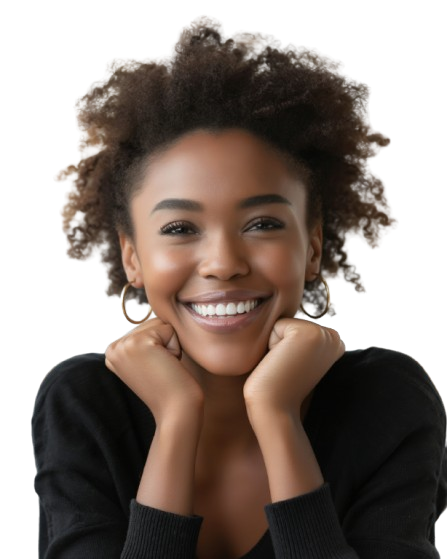
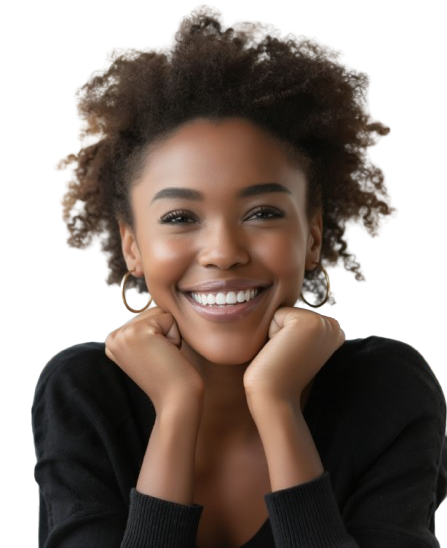
link audit

diff --git a/index.html b/index.html
@@ -80,9 +80,13 @@
             </li>
 
             <li class="navbar-item">
-              <a href="#register" class="navbar-link" data-nav-link>
+              <a
+                href="https://docs.google.com/forms/d/e/1FAIpQLSdbLkoqpBtvrJ2kJdFiNb85ciwo3B8rC52i7BCS8k_GWpFzLA/viewform"
+                class="navbar-link"
+                target="_blank"
+                rel="noopener noreferrer"
+              >
                 <span>Register</span>
-
                 <ion-icon name="chevron-forward"></ion-icon>
               </a>
             </li>
@@ -147,8 +151,13 @@
               <p class="hero-text">Where wellness meets standards</p>
 
               <div class="button-group">
-                <a href="#" class="btn-outline">Register</a>
-                <a href="#" class="btn-outline">Learn More</a>
+                <a
+                  href="https://docs.google.com/forms/d/e/1FAIpQLSdbLkoqpBtvrJ2kJdFiNb85ciwo3B8rC52i7BCS8k_GWpFzLA/viewform"
+                  target="_blank"
+                  class="btn-outline"
+                  >Register</a
+                >
+                <a href="#about" class="btn-outline">Learn More</a>
               </div>
 
               <img
@@ -299,7 +308,13 @@
                 </li>
               </ul>
 
-              <a href="#" class="btn">Register</a>
+              <a
+                href="https://docs.google.com/forms/d/e/1FAIpQLSdbLkoqpBtvrJ2kJdFiNb85ciwo3B8rC52i7BCS8k_GWpFzLA/viewform"
+                target="_blank"
+                rel="noopener noreferrer"
+                class="btn"
+                >Register</a
+              >
             </div>
           </div>
         </section>
@@ -576,7 +591,7 @@
                 </p>
               </div>
 
-              <a href="#" class="btn">Learn More</a>
+              <!-- <a href="#about" class="btn">Learn More</a> -->
             </div>
 
             <ul class="feature-list grid-list">
@@ -630,14 +645,14 @@
                 </div>
               </li>
 
-              <li>
+              <!-- <li>
                 <img
-                  src="./assets/images/Graduation Celebration.png"
-                  width="400"
-                  height="200"
+                  src="./assets/images/2630576-education-student-and-graduation-by-black-woman-portrait-at-university-for-future-goal-or-success-on-blur-background.-face-graduate-and-girl-at-college-for-scholarship-academic-and-qualification-fit_400_400.jpg"
+                  width="600"
+                  height="400"
                   alt="Institution Certificate"
                 />
-              </li>
+              </li> -->
             </ul>
           </div>
         </section>
@@ -904,10 +919,10 @@
           </div>
         </section>
 
-        <br>
-        <br>
-        <br>
-        <br>
+        <br />
+        <br />
+        <br />
+        <br />
 
         <!-- 
         - #NEWSLETTER
@@ -967,26 +982,39 @@
 
             <ul class="social-list">
               <li>
-                <a href="#" class="social-link">
+                <a
+                  href="https://www.facebook.com/hwbsa?rdid=piaJV9Ftsswo55cW&share_url=https%3A%2F%2Fwww.facebook.com%2Fshare%2F1H484GVgAC%2F#"
+                  target="_blank"
+                  class="social-link"
+                >
                   <ion-icon name="logo-facebook"></ion-icon>
                 </a>
               </li>
 
-              <li>
+              <!-- <li>
                 <a href="#" class="social-link">
-                  <ion-icon name="logo-twitter"></ion-icon>
+                  <ion-icon name="logo-linkedin"></ion-icon>
+                </a>
+              </li> -->
+
+              <li>
+                <a
+                  href="https://www.tiktok.com/@hwbsa_?_r=1&_t=ZM-915eYOMlSPb"
+                  target="_blank"
+                  class="social-link"
+                  class="social-link"
+                >
+                  <ion-icon name="logo-tiktok"></ion-icon>
                 </a>
               </li>
 
               <li>
-                <a href="#" class="social-link">
-                  <ion-icon name="logo-instagram"></ion-icon>
-                </a>
-              </li>
-
-              <li>
-                <a href="#" class="social-link">
-                  <ion-icon name="logo-youtube"></ion-icon>
+                <a
+                  href="https://api.whatsapp.com/send?phone=27768895106&text=Hello.%20I%20would%20like%20to%20know%20more%20about%20HWBSA%20registration."
+                  target="_blank"
+                  class="social-link"
+                >
+                  <ion-icon name="logo-whatsapp"></ion-icon>
                 </a>
               </li>
             </ul>
@@ -998,10 +1026,12 @@
             </li>
 
             <li><a href="#" class="footer-link">Home</a></li>
-            <li><a href="#" class="footer-link">About Us</a></li>
-            <li><a href="#" class="footer-link">Certificates</a></li>
-            <li><a href="#" class="footer-link">FAQ</a></li>
-            <li><a href="#" class="footer-link">Contact Us</a></li>
+            <li><a href="#about" class="footer-link">About Us</a></li>
+            <li>
+              <a href="#certification" class="footer-link">Certificates</a>
+            </li>
+            <li><a href="#faqs" class="footer-link">FAQ</a></li>
+            <li><a href="#contact" class="footer-link">Contact Us</a></li>
           </ul>
 
           <ul class="footer-list">
@@ -1009,15 +1039,11 @@
               <p class="footer-list-title">Community</p>
             </li>
 
-            <li>
-              <a href="#" class="footer-link">Health & corporate-wellness</a>
-            </li>
-            <li><a href="#" class="footer-link">Lifestyle & Medicine</a></li>
-            <li><a href="#" class="footer-link">Holistic Nutrition</a></li>
-            <li><a href="#" class="footer-link">Mind, Body & Energy</a></li>
-            <li>
-              <a href="#" class="footer-link">Sexuality & Relationships</a>
-            </li>
+            <li>Health & corporate-wellness</li>
+            <li>Lifestyle & Medicine</li>
+            <li>Holistic Nutrition</li>
+            <li>Mind, Body & Energy</li>
+            <li>Sexuality & Relationships</li>
           </ul>
 
           <ul class="footer-list">
